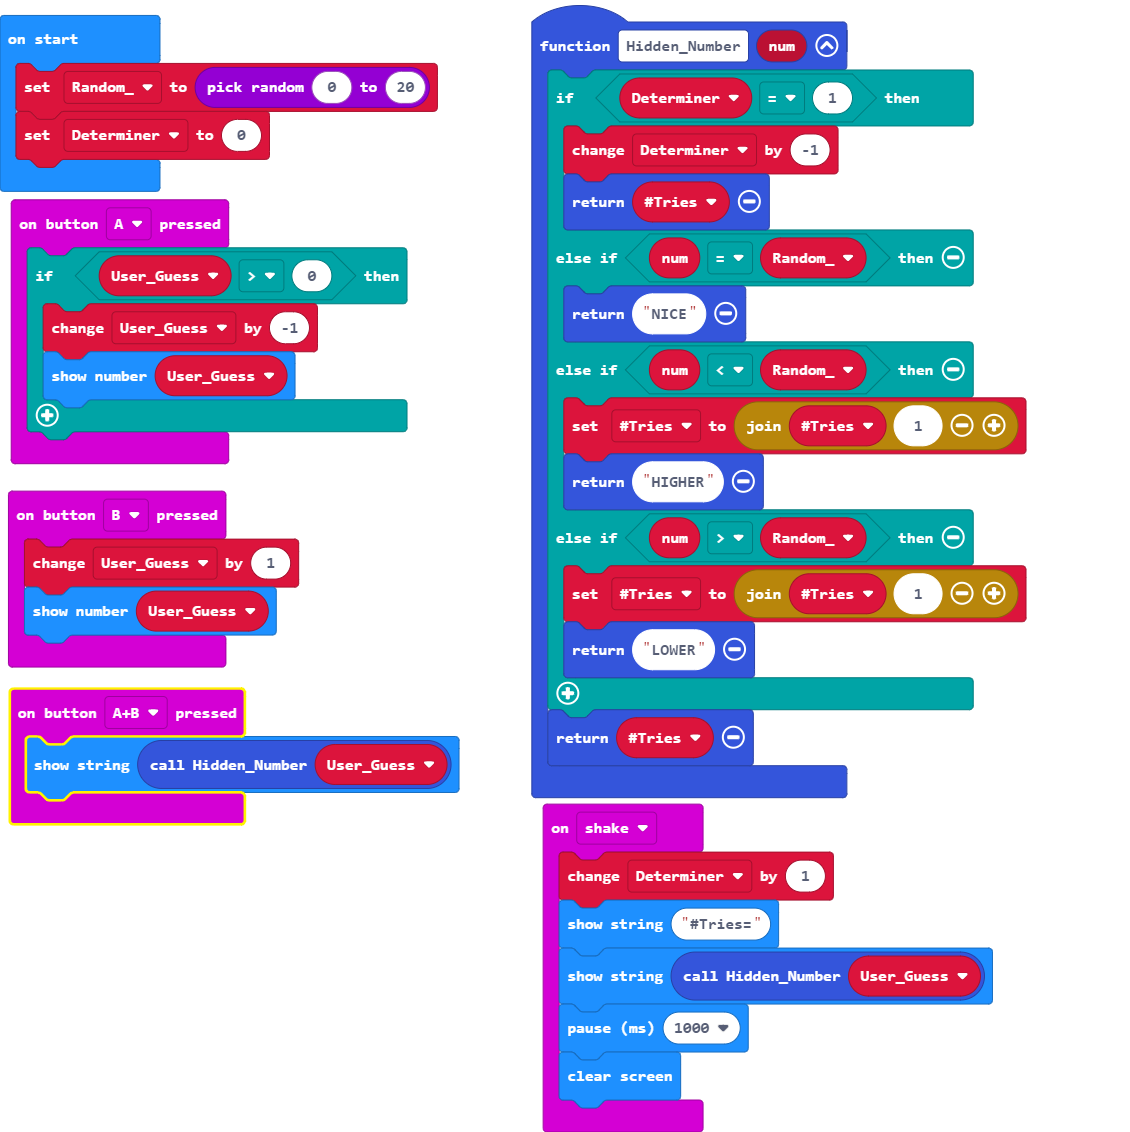
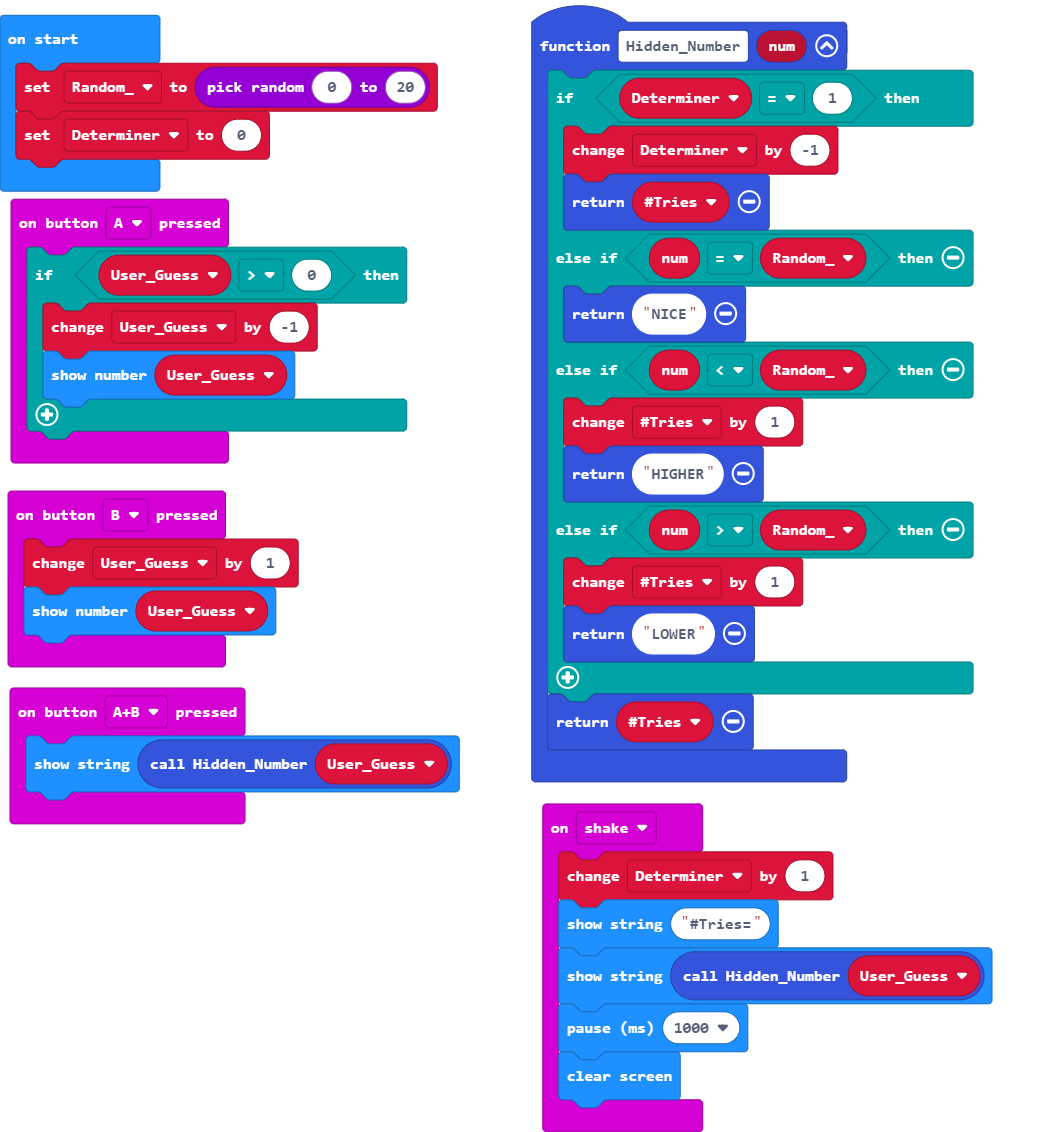
Update main.blocks, main.ts

Changed region(s): [[0.0, 0.0, 0.9502, 1.0], [0.8582, 0.0618, 0.9502, 0.1237], [0.3372, 0.3401, 0.3985, 0.4019]]

diff --git a/main.ts b/main.ts
@@ -25,10 +25,10 @@ function Hidden_Number (num: number) {
     } else if (num == Random_) {
         return "NICE"
     } else if (num < Random_) {
-        Tries = "" + Tries + 1
+        Tries += 1
         return "HIGHER"
     } else if (num > Random_) {
-        Tries = "" + Tries + 1
+        Tries += 1
         return "LOWER"
     }
     return Tries
